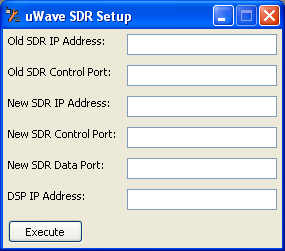
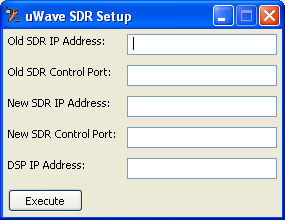
Begin conversion to UDP for all communication. Only SDRSetup and GUISetup so far.

diff --git a/trunk/Software/Help/SDRSetup/GUI.htm b/trunk/Software/Help/SDRSetup/GUI.htm
@@ -3,9 +3,7 @@
 <title>The SDRSetup Screen</title>
 </head>
 <body>
-<img src="SDRSetup.png" width="285" height="251" />
-<p>This is the screen that allows you to enter details about the old SDR IP address and control port and replace them with
-information about the new IP address and control and data port numbers. The IP address of the DSP unit, typically your PC,
-must also be entered.</p>
+<img src="SDRSetup.png" width="285" height="220" />
+<p>This is the screen that allows you to enter details about the old SDR IP address and control port and replace them with information about the new IP address and control port values. The IP address of the DSP unit, typically your PC, must also be entered.</p>
 </body>
 </html>

diff --git a/trunk/Software/Help/GUISetup/Ethernet.htm b/trunk/Software/Help/GUISetup/Ethernet.htm
@@ -3,7 +3,7 @@
 <title>The Ethernet Setup Screen</title>
 </head>
 <body>
-<p><img src="Ethernet.png" width="238" height="158" /></p>
+<p><img src="Ethernet.png" width="238" height="127" /></p>
 <p>If the type of SDR requires an Ethernet connection then the Ethernet Set button on the main screen will be available. If it is, then it is important to enter the correct details of the remote SDR in order to communicate with it.</p>
 </body>
 </html>

diff --git a/trunk/Software/Help/SDRSetup/NewSDRPort.htm b/trunk/Software/Help/SDRSetup/NewSDRPort.htm
@@ -1,0 +1,8 @@
+<html>
+<head>
+<title>New SDR Port</title>
+</head>
+<body>
+<p>This is the desired new control port number for your SDR. Unlike the IP address, this does not need to be unique. Using the same number as as the default (5001) is perfectly
+acceptable unless some local restriction applies.</p>
+</html>

diff --git a/trunk/Software/Help/SDRSetup/OldSDRPort.htm b/trunk/Software/Help/SDRSetup/OldSDRPort.htm
@@ -1,6 +1,6 @@
 <html>
 <head>
-<title>Old SDR Control Port</title>
+<title>Old SDR Port</title>
 </head>
 <body>
 <p>This is the current control port number of your SDR. If it is a brand new SDR then it will be listening on port 5001, otherwise

diff --git a/trunk/Software/SDRSetup/SDRSetupFrame.cpp b/trunk/Software/SDRSetup/SDRSetupFrame.cpp
@@ -38,8 +38,7 @@ wxFrame(NULL, -1, wxString(_("uWave SDR Setup")), wxDefaultPosition, wxDefaultSi
 m_oldSDRAddress(NULL),
 m_oldSDRControlPort(NULL),
 m_sdrAddress(NULL),
-m_sdrControlPort(NULL),
-m_sdrDataPort(NULL),
+m_sdrPort(NULL),
 m_dspAddress(NULL)
 {
 	SetIcon(wxICON(SDRSetup));
@@ -71,14 +70,8 @@ m_dspAddress(NULL)
 	wxStaticText* label5 = new wxStaticText(panel, -1, _("New SDR Control Port:"));
 	panelSizer->Add(label5, 0, wxALL, BORDER_SIZE);
 
-	m_sdrControlPort = new wxTextCtrl(panel, -1, wxEmptyString, wxDefaultPosition, wxSize(DATA_WIDTH, -1));
-	panelSizer->Add(m_sdrControlPort, 0, wxALL, BORDER_SIZE);
-
-	wxStaticText* label6 = new wxStaticText(panel, -1, _("New SDR Data Port:"));
-	panelSizer->Add(label6, 0, wxALL, BORDER_SIZE);
-
-	m_sdrDataPort = new wxTextCtrl(panel, -1, wxEmptyString, wxDefaultPosition, wxSize(DATA_WIDTH, -1));
-	panelSizer->Add(m_sdrDataPort, 0, wxALL, BORDER_SIZE);
+	m_sdrPort = new wxTextCtrl(panel, -1, wxEmptyString, wxDefaultPosition, wxSize(DATA_WIDTH, -1));
+	panelSizer->Add(m_sdrPort, 0, wxALL, BORDER_SIZE);
 
 	wxStaticText* label7 = new wxStaticText(panel, -1, _("DSP IP Address:"));
 	panelSizer->Add(label7, 0, wxALL, BORDER_SIZE);
@@ -106,7 +99,6 @@ void CSDRSetupFrame::onExecute(wxCommandEvent& WXUNUSED(event))
 {
 	wxIPV4address oldControl;
 	wxIPV4address newControl;
-	wxIPV4address newData;
 	wxIPV4address dsp;
 
 	wxString addressString = m_oldSDRAddress->GetValue();
@@ -148,35 +140,19 @@ void CSDRSetupFrame::onExecute(wxCommandEvent& WXUNUSED(event))
 		return;
 	}
 
-	newData.Hostname(addressString);
-
-	portString = m_sdrControlPort->GetValue();
+	portString = m_sdrPort->GetValue();
 	if (portString.IsEmpty()) {
-		::wxMessageBox(_("The new SDR control port is not allowed to be empty"), _("SDRSetup Error"), wxICON_ERROR);
+		::wxMessageBox(_("The new SDR port is not allowed to be empty"), _("SDRSetup Error"), wxICON_ERROR);
 		return;
 	}
 
 	valid = portString.ToLong(&port);
 	if (!valid || port < 1L || port > 65535L) {
-		::wxMessageBox(_("The new SDR control port is not valid (1-65535)"), _("SDRSetup Error"), wxICON_ERROR);
+		::wxMessageBox(_("The new SDR port is not valid (1-65535)"), _("SDRSetup Error"), wxICON_ERROR);
 		return;
 	}
 
 	newControl.Service(port);
-
-	portString = m_sdrDataPort->GetValue();
-	if (portString.IsEmpty()) {
-		::wxMessageBox(_("The new SDR data port is not allowed to be empty"), _("SDRSetup Error"), wxICON_ERROR);
-		return;
-	}
-
-	valid = portString.ToLong(&port);
-	if (!valid || port < 1L || port > 65535L) {
-		::wxMessageBox(_("The new SDR data port is not valid (1-65535)"), _("SDRSetup Error"), wxICON_ERROR);
-		return;
-	}
-
-	newData.Service(port);
 	dsp.Service(port);
 
 	addressString = m_dspAddress->GetValue();
@@ -203,7 +179,7 @@ void CSDRSetupFrame::onExecute(wxCommandEvent& WXUNUSED(event))
 
 	socket->SetTimeout(10);
 
-	ret = setNewSDR(socket, newControl, newData);
+	ret = setNewSDR(socket, newControl);
 	if (!ret) {
 		socket->Destroy();
 		return;
@@ -222,11 +198,11 @@ void CSDRSetupFrame::onExecute(wxCommandEvent& WXUNUSED(event))
 	Close(true);
 }
 
-bool CSDRSetupFrame::setNewSDR(wxSocketClient* socket, const wxIPV4address& control, const wxIPV4address& data) const
+bool CSDRSetupFrame::setNewSDR(wxSocketClient* socket, const wxIPV4address& control) const
 {
 	wxString command;
 
-	command.Printf(wxT("SI%s,%u,%u;"), control.IPAddress().c_str(), control.Service(), data.Service());
+	command.Printf(wxT("SI%s,%u;"), control.IPAddress().c_str(), control.Service());
 
 	return sendCommand(socket, command);
 }

diff --git a/trunk/Software/GUISetup/GUISetupFrame.cpp b/trunk/Software/GUISetup/GUISetupFrame.cpp
@@ -100,7 +100,6 @@ m_sdrAudioInDev(NO_DEV),
 m_sdrAudioOutDev(NO_DEV),
 m_ipAddress(),
 m_controlPort(-1L),
-m_dataPort(-1L),
 m_txInEnable(false),
 m_txInDev(),
 m_txInPin(IN_NONE),
@@ -334,7 +333,7 @@ void CGUISetupFrame::onCreate(wxCommandEvent& WXUNUSED(event))
 	}
 
 	if (featureList[m_sdrType].ethernetButton) {
-		if (m_ipAddress.IsEmpty() || m_controlPort == -1L || m_dataPort == -1L) {
+		if (m_ipAddress.IsEmpty() || m_controlPort == -1L) {
 			::wxMessageBox(_("The Ethernet has not been set"), _("GUISetup Error"), wxICON_ERROR);
 			return;
 		}
@@ -358,7 +357,6 @@ void CGUISetupFrame::onCreate(wxCommandEvent& WXUNUSED(event))
 	wxString sdrAudioInDevKey   = wxT("/") + name + wxT("/SDRAudioInDev");
 	wxString ipAddressKey       = wxT("/") + name + wxT("/IPAddress");
 	wxString controlPortKey     = wxT("/") + name + wxT("/ControlPort");
-	wxString dataPortKey        = wxT("/") + name + wxT("/DataPort");
 	wxString txInEnableKey      = wxT("/") + name + wxT("/TXInEnable");
 	wxString txInDevKey         = wxT("/") + name + wxT("/TXInDev");
 	wxString txInPinKey         = wxT("/") + name + wxT("/TXInPin");
@@ -431,12 +429,6 @@ void CGUISetupFrame::onCreate(wxCommandEvent& WXUNUSED(event))
 		ret = config->Write(controlPortKey, m_controlPort);
 		if (!ret) {
 			::wxMessageBox(_("Unable to write configuration data - ControlPort"), _("GUISetup Error"), wxICON_ERROR);
-			return;
-		}
-
-		ret = config->Write(dataPortKey, m_dataPort);
-		if (!ret) {
-			::wxMessageBox(_("Unable to write configuration data - DataPort"), _("GUISetup Error"), wxICON_ERROR);
 			return;
 		}
 	}
@@ -565,7 +557,6 @@ void CGUISetupFrame::readConfig(const wxString& name)
 	wxString sdrAudioOutDevKey  = wxT("/") + name + wxT("/SDRAudioOutDev");
 	wxString ipAddressKey       = wxT("/") + name + wxT("/IPAddress");
 	wxString controlPortKey     = wxT("/") + name + wxT("/ControlPort");
-	wxString dataPortKey        = wxT("/") + name + wxT("/DataPort");
 	wxString txInEnableKey      = wxT("/") + name + wxT("/TXInEnable");
 	wxString txInDevKey         = wxT("/") + name + wxT("/TXInDev");
 	wxString txInPinKey         = wxT("/") + name + wxT("/TXInPin");
@@ -598,7 +589,6 @@ void CGUISetupFrame::readConfig(const wxString& name)
 
 	config->Read(ipAddressKey,   &m_ipAddress);
 	config->Read(controlPortKey, &m_controlPort);
-	config->Read(dataPortKey,    &m_dataPort);
 
 	config->Read(txInEnableKey,  &m_txInEnable);
 	config->Read(txInDevKey,     &m_txInDev);
@@ -651,13 +641,12 @@ void CGUISetupFrame::onSDRAudio(wxCommandEvent& WXUNUSED(event))
 
 void CGUISetupFrame::onEthernet(wxCommandEvent& WXUNUSED(event))
 {
-	CEthernetDialog dialog(this, _("Ethernet Setup"), m_ipAddress, m_controlPort, m_dataPort);
+	CEthernetDialog dialog(this, _("Ethernet Setup"), m_ipAddress, m_controlPort);
 
 	int ret = dialog.ShowModal();
 	if (ret == wxID_OK) {
 		m_ipAddress   = dialog.getIPAddress();
 		m_controlPort = dialog.getControlPort();
-		m_dataPort    = dialog.getDataPort();
 	}
 }
 

diff --git a/trunk/Software/GUISetup/EthernetDialog.cpp b/trunk/Software/GUISetup/EthernetDialog.cpp
@@ -27,14 +27,12 @@ BEGIN_EVENT_TABLE(CEthernetDialog, wxDialog)
 END_EVENT_TABLE()
 
 
-CEthernetDialog::CEthernetDialog(wxWindow* parent, const wxString& title, const wxString& address, long control, long data, int id) :
+CEthernetDialog::CEthernetDialog(wxWindow* parent, const wxString& title, const wxString& address, long control, int id) :
 wxDialog(parent, id, title),
 m_address(NULL),
 m_control(NULL),
-m_data(NULL),
 m_ipAddress(address),
-m_controlPort(control),
-m_dataPort(data)
+m_controlPort(control)
 {
 	wxBoxSizer* mainSizer = new wxBoxSizer(wxVERTICAL);
 
@@ -54,24 +52,12 @@ m_dataPort(data)
 	m_control = new wxTextCtrl(panel, -1, wxEmptyString, wxDefaultPosition, wxSize(DATA_WIDTH, -1));
 	panelSizer->Add(m_control, 0, wxALL, BORDER_SIZE);
 
-	wxStaticText* label3 = new wxStaticText(panel, -1, _("Data Port:"));
-	panelSizer->Add(label3, 0, wxALL, BORDER_SIZE);
-
-	m_data = new wxTextCtrl(panel, -1, wxEmptyString, wxDefaultPosition, wxSize(DATA_WIDTH, -1));
-	panelSizer->Add(m_data, 0, wxALL, BORDER_SIZE);
-
 	m_address->SetValue(m_ipAddress);
 
 	if (m_controlPort != -1L) {
 		wxString text;
 		text.Printf(wxT("%ld"), m_controlPort);
 		m_control->SetValue(text);
-	}
-
-	if (m_dataPort != -1L) {
-		wxString text;
-		text.Printf(wxT("%ld"), m_dataPort);
-		m_data->SetValue(text);
 	}
 
 	panel->SetSizer(panelSizer);
@@ -108,18 +94,6 @@ void CEthernetDialog::onOK(wxCommandEvent& WXUNUSED(event))
 		::wxMessageBox(_("The Control Port must be between 1 and 65536"), _("GUISetup Error"), wxICON_ERROR);
 		return;
 	}
-	
-	wxString data = m_data->GetValue();
-	if (data.IsEmpty()) {
-		::wxMessageBox(_("The Data Port is not allowed to be empty"), _("GUISetup Error"), wxICON_ERROR);
-		return;
-	}
-
-	data.ToLong(&m_dataPort);
-	if (m_dataPort < 1L || m_dataPort > 65536L) {
-		::wxMessageBox(_("The Data Port must be between 1 and 65536"), _("GUISetup Error"), wxICON_ERROR);
-		return;
-	}
 
 	if (IsModal()) {
 		EndModal(wxID_OK);
@@ -137,9 +111,4 @@ wxString CEthernetDialog::getIPAddress() const
 long CEthernetDialog::getControlPort() const
 {
 	return m_controlPort;
-}
-
-long CEthernetDialog::getDataPort() const
-{
-	return m_dataPort;
 }

diff --git a/trunk/Software/SDRSetup/SDRSetupFrame.h b/trunk/Software/SDRSetup/SDRSetupFrame.h
@@ -31,7 +31,7 @@ class CSDRSetupFrame : public wxFrame {
 
 	void onExecute(wxCommandEvent& event);
 
-	virtual bool setNewSDR(wxSocketClient* socket, const wxIPV4address& control, const wxIPV4address& data) const;
+	virtual bool setNewSDR(wxSocketClient* socket, const wxIPV4address& control) const;
 	virtual bool setNewDSP(wxSocketClient* socket, const wxIPV4address& address) const;
 
 	virtual bool sendCommand(wxSocketClient* socket, const wxString& command) const;
@@ -40,8 +40,7 @@ class CSDRSetupFrame : public wxFrame {
 	wxTextCtrl* m_oldSDRAddress;
 	wxTextCtrl* m_oldSDRControlPort;
 	wxTextCtrl* m_sdrAddress;
-	wxTextCtrl* m_sdrControlPort;
-	wxTextCtrl* m_sdrDataPort;
+	wxTextCtrl* m_sdrPort;
 	wxTextCtrl* m_dspAddress;
 
 	DECLARE_EVENT_TABLE()

diff --git a/trunk/Software/GUISetup/EthernetDialog.h b/trunk/Software/GUISetup/EthernetDialog.h
@@ -24,23 +24,20 @@
 class CEthernetDialog : public wxDialog {
 
     public:
-	CEthernetDialog(wxWindow* parent, const wxString& title, const wxString& address, long control, long data, int id = -1);
+	CEthernetDialog(wxWindow* parent, const wxString& title, const wxString& address, long control, int id = -1);
 	virtual ~CEthernetDialog();
 
 	void onOK(wxCommandEvent& event);
 
 	virtual wxString getIPAddress() const;
 	virtual long     getControlPort() const;
-	virtual long     getDataPort() const;
 
     private:
 	wxTextCtrl* m_address;
 	wxTextCtrl* m_control;
-	wxTextCtrl* m_data;
 
 	wxString    m_ipAddress;
 	long        m_controlPort;
-	long        m_dataPort;
 
 	DECLARE_EVENT_TABLE()
 };

diff --git a/trunk/Software/Common/Common.h b/trunk/Software/Common/Common.h
@@ -22,10 +22,10 @@
 #include <wx/wx.h>
 #include <wx/datetime.h>
 
-const wxString VERSION  = wxT("uWave SDR 0.8.1");
+const wxString VERSION  = wxT("uWave SDR 0.8.2");
 
 const wxDateTime::wxDateTime_t REL_DATE_DAY   = 9;
-const wxDateTime::Month        REL_DATE_MONTH = wxDateTime::Apr;
+const wxDateTime::Month        REL_DATE_MONTH = wxDateTime::May;
 const unsigned int             REL_DATE_YEAR  = 2007;
 
 enum INPIN {

diff --git a/trunk/Software/GUISetup/GUISetupFrame.h b/trunk/Software/GUISetup/GUISetupFrame.h
@@ -57,7 +57,6 @@ class CGUISetupFrame : public wxFrame {
 	int            m_sdrAudioOutDev;
 	wxString       m_ipAddress;
 	long           m_controlPort;
-	long           m_dataPort;
 	bool           m_txInEnable;
 	wxString       m_txInDev;
 	INPIN          m_txInPin;
